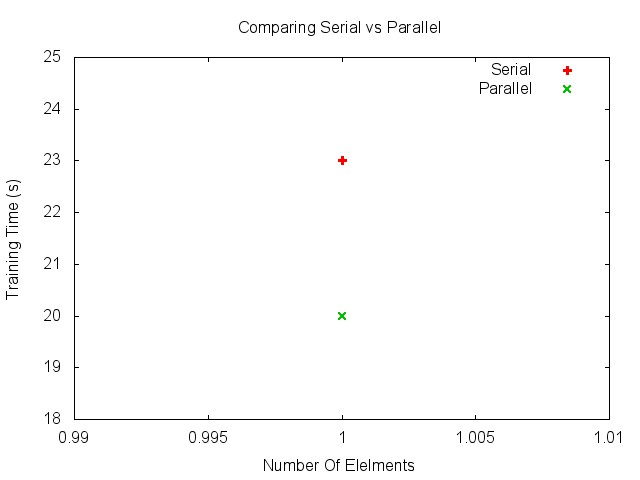
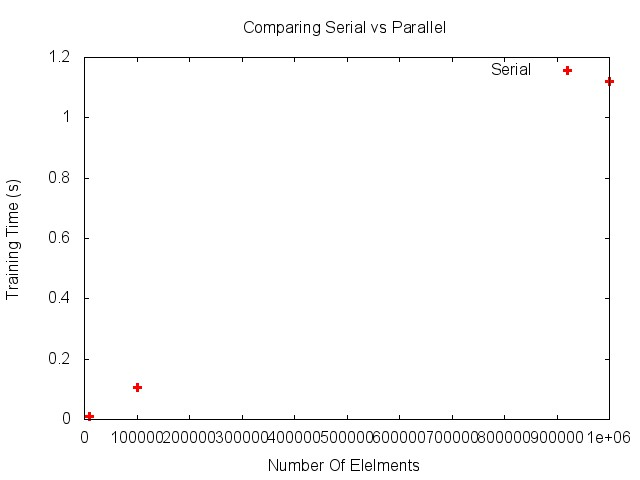
added timer

diff --git a/src/serial.cpp b/src/serial.cpp
@@ -1,12 +1,18 @@
 #include <stdio.h>
+#include <time.h>
+#define SIZE 10000
 
 int main(int argc, char const *argv[])
 {
 	FILE *fp;
 	fp=fopen("data/serial.dat", "a");
-	fprintf(fp, "1\t23\n");
-    /* CODE */
+	clock_t t;
+	t = clock();
 
+	/* code */
+
+    t = clock() - t;
+    fprintf (fp, "%d\t%f\n", SIZE,((float)t)/CLOCKS_PER_SEC);
     fclose(fp);
 	return 0;
 }
